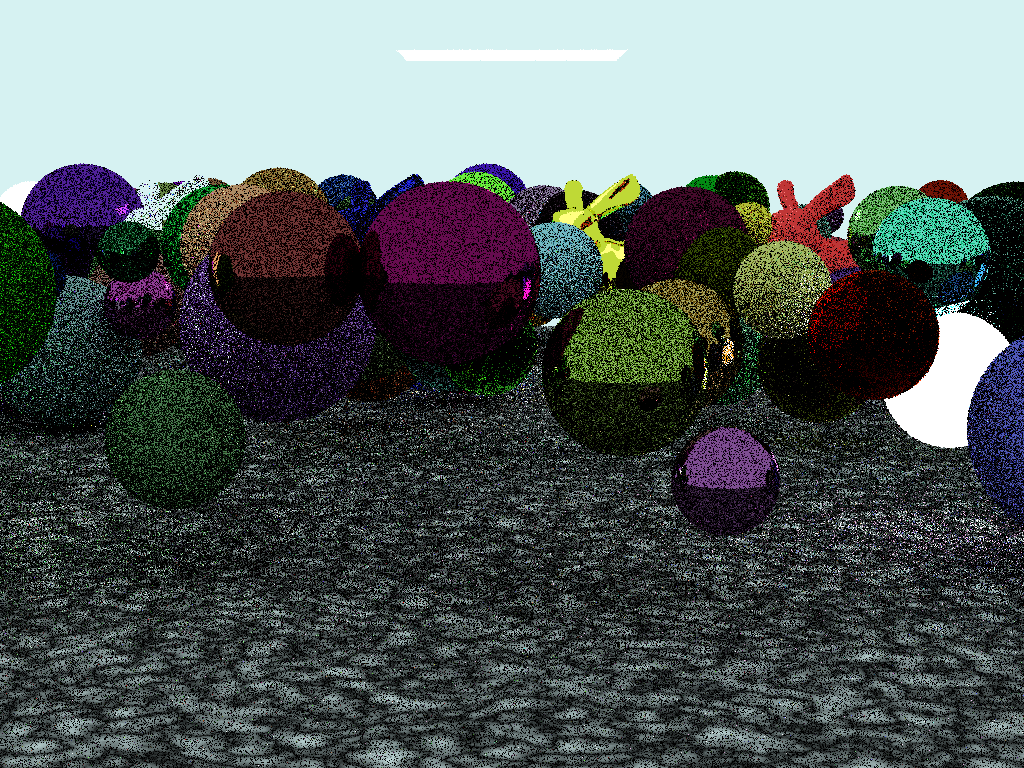
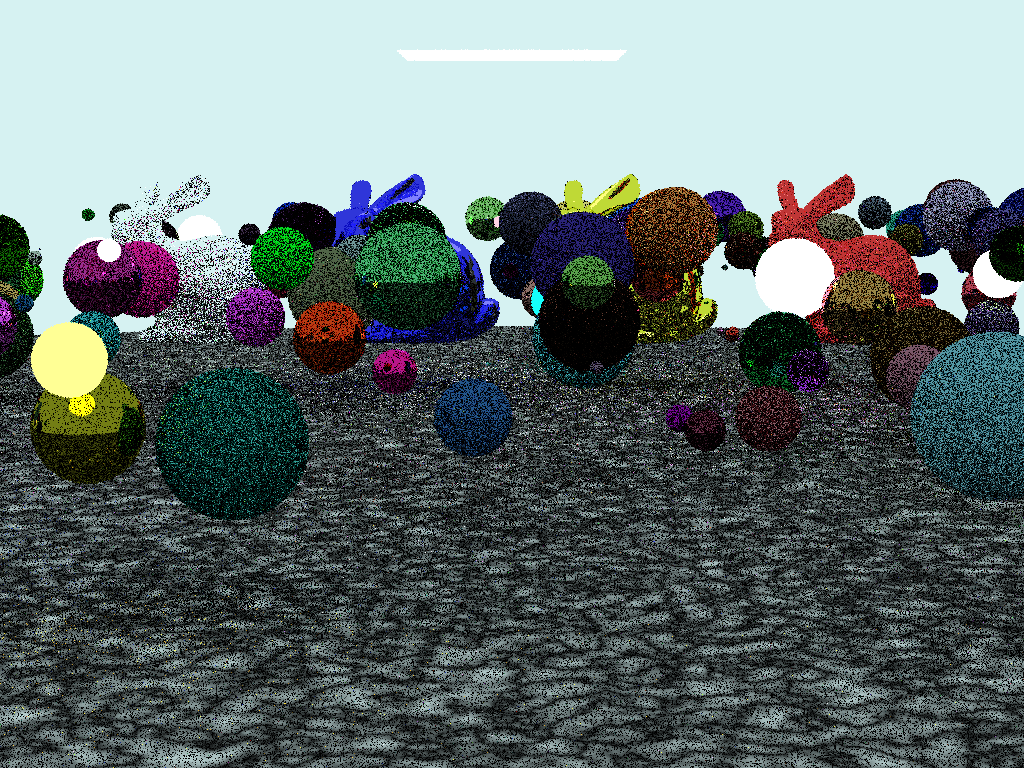
#1 TODO: transformation for triangle should be applied when creating mesh

diff --git a/src/core/Primitive.h b/src/core/Primitive.h
@@ -25,14 +25,11 @@ public:
         auto p = rec.p;
         auto normal = rec.normal;
         p = mat4::point_mul(transform->getMatrix(), rec.p);
-        normal = normalize(mat4::vector_mul(transform->getMatrix(), rec.normal));
+        normal = normalize(mat4::normal_mul(transform->getInvMatrix(), rec.normal));
 
         rec.p = p;
-        rec.set_face_normal(tr_ray, normal);
+        rec.set_face_normal(r, normal);
         rec.mat_ptr = material;
-
-        // Update ray by transformed ray
-        r = tr_ray;
 
         return true;
     }
@@ -56,6 +53,7 @@ public:
                 } 
             }
         }
+
 
         return AABB(min, max);
     }

diff --git a/src/core/Transform.h b/src/core/Transform.h
@@ -32,10 +32,9 @@ inline Transform operator*(Transform t1, Transform t2) {
     return Transform(mat, matInv);
 }
 
-inline Ray operator*(Transform t1, Ray r) {
-    vec3 ro = mat4::point_mul(t1.getInvMatrix(), r.origin());
-    auto r_length = r.direction().length();
-    vec3 rd = normalize(mat4::vector_mul(t1.getInvMatrix(), r.direction()));
+inline Ray operator*(Transform t, Ray r) {
+    vec3 ro = mat4::point_mul(t.getInvMatrix(), r.origin());
+    vec3 rd = normalize(mat4::vector_mul(t.getInvMatrix(), r.direction()));
     return Ray(ro, rd);
 }
 

diff --git a/src/core/Shape.h b/src/core/Shape.h
@@ -6,8 +6,12 @@
 #include "Transform.h"
 
 class Shape {
-    public:
-        virtual bool intersect(const Ray& r, double t_min, double t_max, HitRecord& rec) const = 0;
-        virtual AABB bounding() const = 0;
+public:
+    Shape() : transform(std::shared_ptr<Transform>()) {}
+    Shape(std::shared_ptr<Transform> transform) : transform(transform) {}
+    virtual bool intersect(const Ray& r, double t_min, double t_max, HitRecord& rec) const = 0;
+    virtual AABB bounding() const = 0;
+private:
+    std::shared_ptr<Transform> transform;
 };
 

diff --git a/scene/notransform.h b/scene/notransform.h
@@ -35,7 +35,7 @@ std::vector<std::shared_ptr<Primitive>> scene() {
 
         primitives.emplace_back(
             std::make_shared<ShapePrimitive>(
-                createSphereShape(vec3(x,y,z), random_double()*2+1.0f),
+                createSphereShape(vec3(x,y,z), random_double()*2.0f),
                 mat_ptr,
                 std::make_shared<Transform>(ts.getCurrentTransform())
             ));

diff --git a/src/material/Lambertian.cpp b/src/material/Lambertian.cpp
@@ -3,7 +3,7 @@
 bool Lambertian::scatter(
     const Ray& r_in, const HitRecord& rec, vec3& attenuation, Ray& scattered
 ) const {
-    vec3 scatter_direction = rec.normal + random_unit_vector();
+    vec3 scatter_direction = normalize(rec.normal + random_unit_vector());
     scattered = Ray(rec.p, scatter_direction, r_in.time());
     attenuation = albedo->value(rec.u, rec.v, rec.p);
     return true;

diff --git a/src/shape/Triangle.h b/src/shape/Triangle.h
@@ -39,7 +39,7 @@ public:
     bool intersect(const Ray& r, double t_min, double t_max, HitRecord& rec) const override;
     AABB bounding() const override { return AABB(min, max); }
 
-    vec3 get_normal() const { 
+    vec3 get_normal() const {
         auto p0 = mesh->vertices[face[0]];
         auto p1 = mesh->vertices[face[1]];
         auto p2 = mesh->vertices[face[2]];

diff --git a/src/PBRenderer.cpp b/src/PBRenderer.cpp
@@ -102,7 +102,7 @@ int main(int argc, const char * argv[]) {
 
     auto primitives = scene();
 
-    auto bvh = new BVH(primitives, 0, primitives.size()-1, 1, BVH::SplitMethod::SAH);
+    auto bvh = new BVH(primitives, 0, primitives.size(), 1, BVH::SplitMethod::SAH);
 
     Image<RGBA> result(image_width, image_height);
     int progress = -1, len_progress = 20;
